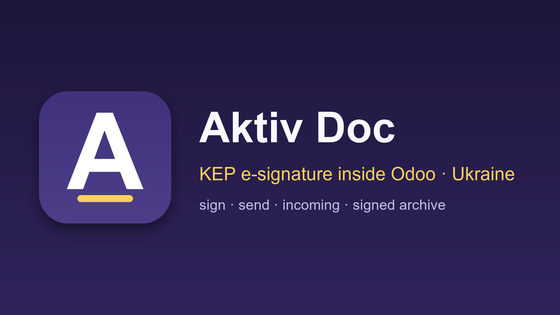
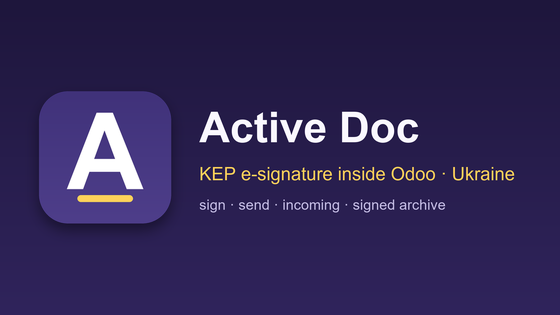
Банери й опис: напис «Active Doc» (як зветься сервіс) замість «Aktiv Doc»

Changed region(s): [[0.5464, 0.3429, 0.7589, 0.4571], [0.3946, 0.3429, 0.4554, 0.4571]]

diff --git a/aktiv_doc/static/description/index.html b/aktiv_doc/static/description/index.html
@@ -6,7 +6,7 @@
   </p>
   <div class="oe_row oe_spaced">
     <img src="banner_wide.png" style="max-width:100%;border-radius:10px;"
-         alt="Aktiv Doc &#8212; sign with KEP and send without leaving Odoo"/>
+         alt="Active Doc &#8212; sign with KEP and send without leaving Odoo"/>
   </div>
 
   <div id="descr-en"><br/><br/><br/><br/><br/></div>

diff --git a/tools/make_description.py b/tools/make_description.py
@@ -327,7 +327,7 @@ def build():
         '  </p>\n',
         '  <div class="oe_row oe_spaced">\n',
         '    <img src="banner_wide.png" style="max-width:100%;border-radius:10px;"\n',
-        '         alt="Aktiv Doc &#8212; sign with KEP and send without leaving Odoo"/>\n',
+        '         alt="Active Doc &#8212; sign with KEP and send without leaving Odoo"/>\n',
         '  </div>\n\n',
         half(EN, "en", values),
         half(UK, "uk", values),

diff --git a/tools/make_banner.py b/tools/make_banner.py
@@ -28,7 +28,7 @@ WHITE = (250, 248, 255)
 ACCENT = (255, 210, 90)
 MUTED = (196, 188, 228)
 
-TITLE = "Aktiv Doc"
+TITLE = "Active Doc"
 SUBTITLE = "KEP e-signature inside Odoo \u00b7 Ukraine"
 DETAIL = "sign \u00b7 send \u00b7 incoming \u00b7 signed archive"
 

diff --git a/README.md b/README.md
@@ -1,4 +1,4 @@
-# Aktiv Doc — KEP e-signature and document exchange for Odoo
+# Active Doc for Odoo — KEP e-signature and document exchange
 
 Sign invoices, acts and delivery notes with a Ukrainian qualified electronic
 signature (KEP) and send them to counterparties through
